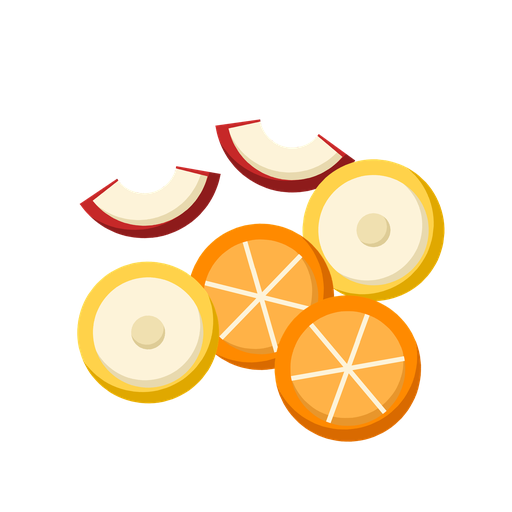
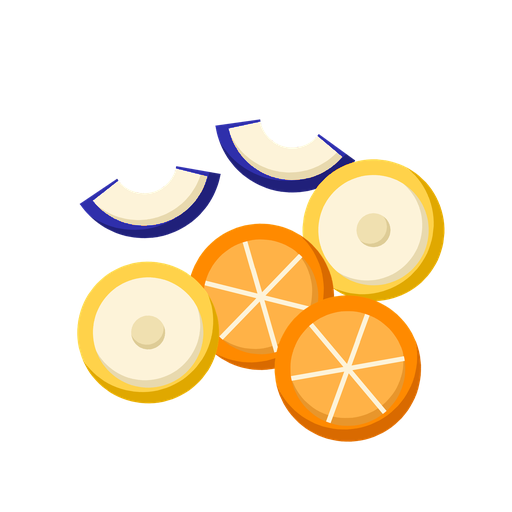
離したときに「使う」が1回ぶん余計に出るのを直した
前回は端末側で送る順番を直したが、それでは足りなかった。

人の入力はサーバー側の待ち行列に溜まり、1手ずつ消化される。一方
「離した」の知らせは別の道(入力イベント)で届き、待たずにすぐ効く。
そのため、離したあとに待ち行列へ残っていた「使う」が、新しい押し始めと
して処理されていた。長押しで切って取ったあと、指を離すと材料が台に
戻るのはこれが原因。

この長押しでもう手を出しているときに限り、離した時点で待ち行列に残って
いる「使う」を捨てるようにした。まだ一度も手を出していないとき(軽く
たたいただけのとき)は残すので、短い操作はこれまでどおり効く。移動の
入力は捨てない。

合わせて、フルーツをリンゴからブルーベリーに見せるようにした。
トマトと同じ赤くて丸い見た目で、見分けがつかなかったため。

  * 絵は赤い画素だけを青紫へ塗り替えた(オレンジ・バナナは色合いが
    離れているのでそのまま残る)。ジュースの色は触っていない
  * 画面に出る名前を「ブルーベリー」にした
  * 内部の名前は Apple のまま。変えると、これまでのリプレイと記録が
    読めなくなるため

チュートリアルのジュースのレシピ表も直した。丸いジュース(鍋の料理に
見える)を出すのをやめ、コップに注いだ見た目を出すようにした。

Changed region(s): [[0.1562, 0.2188, 0.6875, 0.4688]]

diff --git a/web/index.html b/web/index.html
@@ -1390,12 +1390,11 @@
       ] },
     { key: 'juice', title: 'ジュース',
       lead: '切った果物をミキサーで混ぜ、コップに注いで出します。',
-      dishes: ['リンゴ・オレンジのジュース', 'バナナ・オレンジのジュース'],
+      dishes: ['ブルーベリー・オレンジのジュース', 'バナナ・オレンジのジュース'],
       steps: [
-        [G('cutboard'), '果物を切る'],
+        [G('FreshApple'), '果物を切って、<br>2つ重ねる'],
         [G('blender'), 'ミキサーに入れ、<br>手ぶらで何度も使う'],
-        [G('MixedApple-MixedOrange'), '混ざるまで回す'],
-        [G('CupTile'), '空のコップを持って<br>ミキサーから注ぐ'],
+        [G('Cup-MixedApple-MixedOrange'), '空のコップを持って<br>ミキサーから注ぐ'],
         [G('delivery'), '提供口へ運ぶ'],
       ] },
     { key: 'ai', title: 'AI と一緒に',

diff --git a/agent/agent/gameplay.py b/agent/agent/gameplay.py
@@ -169,6 +169,11 @@ class GamePlay(Game):
         # 長押しでまた置いてしまうのを防ぐ)。
         self.interact_held = False
         self.interact_used = False
+        # 人の入力の待ち行列。環境の輪が1手ずつ取り出す。離したときに
+        # 余っている「使う」を捨てるため、入力を受ける側からも触れるように
+        # ここに持たせる(触るのは別のスレッドなので鍵をかける)。
+        self._human_backlog = collections.deque(maxlen=HUMAN_INPUT_BACKLOG)
+        self._backlog_lock = threading.Lock()
         self.ai = get_agent(self.agent_set, self.replay)
 
         # concurrent control variables
@@ -387,6 +392,23 @@ class GamePlay(Game):
 
         elif event.type == pygame.KEYUP:
             if pygame.key.name(event.key) == "space":
+                if self.interact_used:
+                    # この長押しでもう手を出している。待ち行列に残っている
+                    # 「使う」は、離したあとに1回ぶん余計に手を出すことに
+                    # なるので捨てる。
+                    #
+                    # 入力は1手ずつしか消化されないので、離した知らせだけが
+                    # 先に届き、残りはそのあとで新しい押し始めとして処理
+                    # されていた(実測: 長押しで切って取ったあと、指を離すと
+                    # 材料が台に戻る)。
+                    with self._backlog_lock:
+                        keep = [a for a in self._human_backlog
+                                if tuple(a or (0, 0)) != tuple(INTERACT)]
+                        dropped = len(self._human_backlog) - len(keep)
+                        self._human_backlog.clear()
+                        self._human_backlog.extend(keep)
+                    # 捨てた分も「処理した」と数える(端末側の先読みと合わせる)
+                    self.human_inputs_done += dropped
                 self.interact_held = False
                 self.interact_used = False
 
@@ -658,7 +680,7 @@ class GamePlay(Game):
         # 1回ぶん消えていた。ネット越し(Web 版)では入力がまとまって届く
         # ことがあり、「ボタンを押しても動かない」ように見える原因だった。
         # 押しすぎて後から遅れて動き続けないよう、溜めるのは少しだけにする。
-        human_backlog = collections.deque(maxlen=HUMAN_INPUT_BACKLOG)
+        human_backlog = self._human_backlog
         # 人の入力をいくつ処理したか。Web 版が先読みの補正に使う。
         self.human_inputs_done = 0
         ai_sent = {}          # 読み替える前に AI が送ってきた行動
@@ -685,12 +707,13 @@ class GamePlay(Game):
                 event_type, args = event
                 if event_type == 'Action':
                     if args['agent'] == "human" and idx_human is not None:
-                        if len(human_backlog) == human_backlog.maxlen:
-                            # 溜まりすぎて捨てる分も「処理した」と数える。
-                            # Web 版は、この数を見て端末側の先読みと実際の
-                            # 位置を合わせている(数え落とすとズレたままになる)。
-                            self.human_inputs_done += 1
-                        human_backlog.append(args['action'])
+                        with self._backlog_lock:
+                            if len(human_backlog) == human_backlog.maxlen:
+                                # 溜まりすぎて捨てる分も「処理した」と数える。
+                                # Web 版は、この数を見て端末側の先読みと実際の
+                                # 位置を合わせている(数え落とすとズレたままになる)。
+                                self.human_inputs_done += 1
+                            human_backlog.append(args['action'])
                     elif args['agent'] == "ai" and self.ai_agent_idx is not None:
                         action_dict[self.sim_agents[self.ai_agent_idx].name] = args['action']
                     elif args['agent'] == "ai_0":
@@ -720,8 +743,11 @@ class GamePlay(Game):
                 ai_sent = {k: v for k, v in action_dict.items()}
                 self._translate_ai_actions(action_dict, idx_human)
                 if idx_human is not None and human_backlog:
-                    action_dict[self.sim_agents[idx_human].name] = human_backlog.popleft()
-                    self.human_inputs_done += 1
+                    with self._backlog_lock:
+                        nxt = human_backlog.popleft() if human_backlog else None
+                    if nxt is not None:
+                        action_dict[self.sim_agents[idx_human].name] = nxt
+                        self.human_inputs_done += 1
                 # 長押し中に「置く/取る」を済ませていたら、離すまで手は出さない。
                 # 切る・混ぜるは持ち物が変わらないので、そのまま続けられる。
                 me = self.sim_agents[idx_human] if idx_human is not None else None

diff --git a/tests/repro_interact_hold_rules.py b/tests/repro_interact_hold_rules.py
@@ -4,6 +4,9 @@
                (そのまま続くと、取った材料をその場に置いてしまう)
     * ミキサー: 入れる → 混ぜる まで一息でできる(まな板と同じ扱い)
     * その他 : 置いた/取った時点で、その長押しは終わり
+    * 離したとき : 待ち行列に残っている「使う」を捨てる
+                   (入力は1手ずつしか消化されないので、離した知らせだけが
+                    先に届き、残りが新しい押し始めとして処理されていた)
 
 実行方法:
     python tests/repro_interact_hold_rules.py
@@ -17,9 +20,15 @@ sys.path.insert(0, REPO_ROOT)
 
 os.environ.setdefault('SDL_VIDEODRIVER', 'dummy')
 
+import collections
+import threading
+
+import pygame
+
 from gym_cooking.envs.overcooked_environment import OvercookedEnvironment, MapSetting
 from gym_cooking.play_test import MAP_SETTINGS
-from agent.agent.gameplay import GamePlay
+from gym_cooking.utils.interact import INTERACT
+from agent.agent.gameplay import GamePlay, HUMAN_INPUT_BACKLOG
 
 results = []
 
@@ -86,6 +95,29 @@ def main():
           not game._hold_still_usable(at_counter, 'ChoppedApple', None))
     check('ただの台から取ったら、そこで終わり',
           not game._hold_still_usable(at_counter, None, 'ChoppedApple'))
+
+    # ---- 離したときに、余っている「使う」を捨てるか ----
+    def release(used, queued):
+        g = GamePlay.__new__(GamePlay)
+        g._human_backlog = collections.deque(queued, maxlen=HUMAN_INPUT_BACKLOG)
+        g._backlog_lock = threading.Lock()
+        g.interact_used = used
+        g.interact_held = True
+        g.human_inputs_done = 0
+        g._q_control = None
+        g.on_event(pygame.event.Event(pygame.KEYUP, key=pygame.K_SPACE))
+        return list(g._human_backlog), g.interact_held, g.human_inputs_done
+
+    left, held, done = release(True, [INTERACT, INTERACT])
+    check('もう手を出したあとに離したら、残りの「使う」は捨てる',
+          left == [] and not held, f'残り={left} 押しっぱなし={held} 数えた={done}')
+
+    left, _, _ = release(False, [INTERACT])
+    check('まだ手を出していないなら残す(軽くたたいた分)',
+          left == [INTERACT], f'残り={left}')
+
+    left, _, _ = release(True, [(0, -1), INTERACT])
+    check('移動の入力は捨てない', left == [(0, -1)], f'残り={left}')
 
     print()
     print(f"[{'SUCCESS' if all(results) else 'FAIL'}] "

diff --git a/agent/agent/instruction_panel.py b/agent/agent/instruction_panel.py
@@ -55,7 +55,7 @@ VERB_STYLE = {
 }
 
 INGREDIENT_JP = {'onion': 'たまねぎ', 'tomato': 'トマト', 'lettuce': 'レタス',
-                 'apple': 'リンゴ', 'orange': 'オレンジ', 'banana': 'バナナ'}
+                 'apple': 'ブルーベリー', 'orange': 'オレンジ', 'banana': 'バナナ'}
 VERB_ACTION_JP = {'chop': '切って', 'cook': '調理して', 'serve': '提供して',
                   'serve_salad': '提供して', 'mix': '混ぜて', 'serve_juice': '提供して',
                   'carry': '運んで', 'handover': '渡して', 'serve_from_counter': '提供して'}

diff --git a/server.py b/server.py
@@ -131,7 +131,7 @@ TUTORIAL_STEPS = [
 ]
 
 _JP_FOOD = {'Lettuce': 'レタス', 'Onion': '玉ねぎ', 'Tomato': 'トマト',
-            'Apple': 'リンゴ', 'Orange': 'オレンジ', 'Banana': 'バナナ'}
+            'Apple': 'ブルーベリー', 'Orange': 'オレンジ', 'Banana': 'バナナ'}
 _JP_DISH = {'Salad': 'サラダ', 'Soup': 'スープ', 'Juice': 'ジュース'}
 
 
